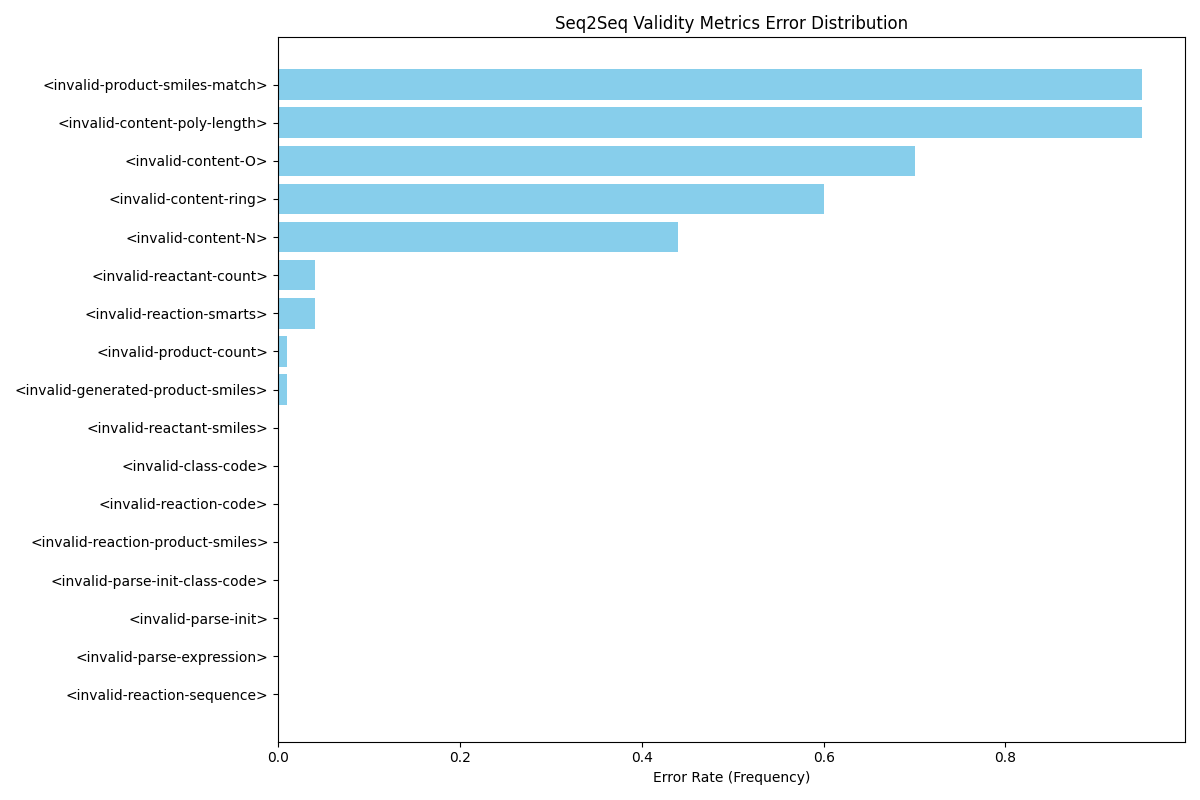
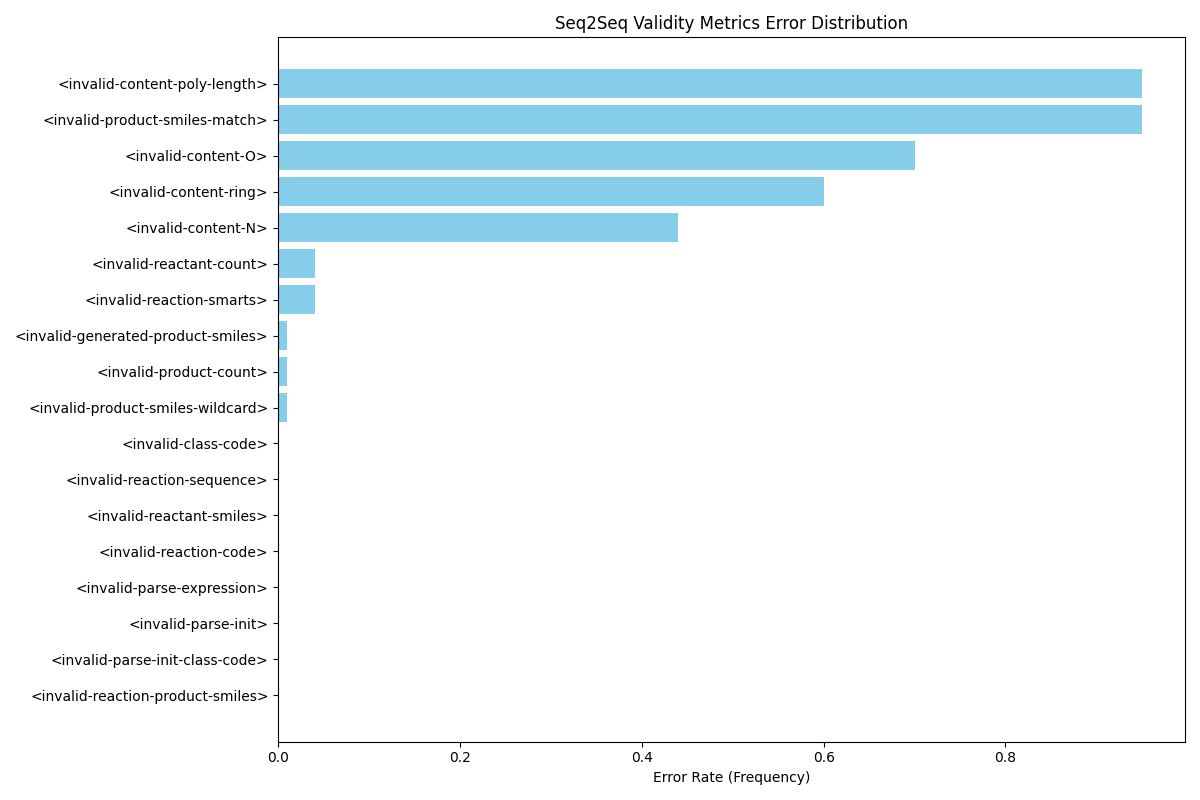
added df write to the output directory

Changed region(s): [[0.0, 0.1562, 0.9558, 0.7812], [0.0308, 0.8125, 0.2158, 0.875], [0.0308, 0.0938, 0.2158, 0.1562]]

diff --git a/seq2seq/src/validator/validator.py b/seq2seq/src/validator/validator.py
@@ -166,6 +166,8 @@ class SeqValidator:
         init_token = re.search(r"##(.*?)##", sequence).group(1)
         init_token = f"##{init_token}##"
         # expression token is the part of the sequence left without init token
+        if init_token is None:
+            raise ValueError("<invalid-init-sequence>")
         expression_token = sequence.replace(init_token, "").strip()
         assert expression_token[-1] == "$" and expression_token[0] == "$", (
             "<invalid-parse-expression>"
@@ -250,12 +252,17 @@ class SeqValidator:
                 ]
                 # flatten this prods_smiles list of lists to list of one dimensions
                 prods_smiles = [item for sublist in prods_smiles for item in sublist]
+                print("prods_smiles", prods_smiles)
                 try:
                     product_smiles = Chem.MolToSmiles(
                         Chem.MolFromSmiles(product.strip()), canonical=True
                     )
+                    print(f"product_smiles >> <{product_smiles}>")
                     if product_smiles not in prods_smiles:
                         errors.append("<invalid-product-smiles-match>")
+                    # search if product_smiles contains exactly 2 "*" or not
+                    if product_smiles.count("*") != 2:
+                        errors.append("<invalid-product-smiles-wildcard>")
                 except Exception as _:
                     errors.append("<invalid-generated-product-smiles>")
             except Exception as _:
@@ -288,13 +295,20 @@ if __name__ == "__main__":
     Homo_Candidate = "##E:0:4:1:27## ${Cc1cc(C(=O)O)c(O)c(C(=O)O)c1} => ([O&X2&H1&!$(OC=*):1].[C&X3:2](=O)[O&X2&H1])>>(*-[O&X2:1].[C&X3:2](=O)-*) => *Oc1c(C(*)=O)cc(C)cc1C(=O)O$"
     # Co_Candidate = "##E:0:8:6:83## ${Cc1cc(CC(=O)O)c(C(=O)Cl)cc1C} + {O=C1c2ccccc2C(=O)c2cc(-c3ccc(O)cc3O)c(-c3cc(O)cc(O)c3)cc21} => ([C&X3:1](=O)[O&X2&H1,Cl,Br].[C&X3:2](=O)[O&X2&H1,Cl,Br]).([O,S;X2;H1;!$([O,S]C=*):3].[O,S;X2;H1;!$([O,S]C=*):4])>>(*-[C&X3:1]=O.[C&X3:2](=O)-[O,S;X2;!$([O,S]C=*):3].[O,S;X2;!$([O,S]C=*):4]-*) => *Oc1cc(O)cc(-c2cc3c(cc2-c2ccc(O)cc2OC(=O)Cc2cc(C)c(C)cc2C(*)=O)C(=O)c2ccccc2C3=O)c1$"
     Co_Candidate = "##E:0:8:6:89## ${Cc1cc(CC(=O)X)c(C(=O)Cl)cc1C} + {O=C1c2ccccc2C(=O)c2cc(-c3ccc(O)cc3O)c(-c3cc(O)cc(O)c3)cc21} => ([C&X3:1](=O)[O&X2&H1,Cl,Br].[C&X3:2](=O)[O&X2&H1,Cl,Br]).([O,S;X2;H1;!$([O,S]C=*):3].[O,S;X2;H1;!$([O,S]C=*):4])>>(*-[C&X3:1]=O.[C&X3:2](=O)-[O,S;X2;!$([O,S]C=*):3].[O,S;X2;!$([O,S]C=*):4]-*) => *Oc1cc(O)cc(-c2cc3c(cc2-c2ccc(O)cc2OC(=O)Cc2cc(C)c(C)cc2C(*)=O)C(=O)c2ccccc2C3=O)c1$"
+    custom = "# # E : 1 : 6 : 3 : 75 # # $ { CN ( CC ( = O ) O ) C ( = O ) CCC ( = O ) O } + { Oc1ccc ( - c2ccc ( OC3 = C ( F ) C ( F ) ( F ) C ( F ) ( F ) C3 ( F ) F ) o2 ) c ( O ) c1 } = > ( [ C & X3 : 1 ] ( = O ) [ O & X2 & H1, Cl, Br ]. [ C & X3 : 2 ] ( = O ) [ O & X2 & H1, Cl, Br ] ). ( [ O, S ; X2 ; H1 ;! $ ( [ O, S ] C = * ) : 3 ]. [ O, S ; X2 ; H1 ;! $ ( [ O, S ] C = * ) : 4 ] ) > > ( * - [ C & X3 : 1 ] = O. [ C & X3 : 2 ] ( = O ) - [ O, S ; X2 ;! $ ( [ O, S ] C = * ) : 3 ]. [ O, S ; X2 ;! $ ( [ O, S ] C = * ) : 4 ] - * ) = > * Oc1cccc ( - c2ccc ( CCCCCCCCCCCCCCCCCC ) c ( OC ( = O ) c3ccc ( CCC ( * ) = O ) cc3O ) c2 ) c1 $"
+    custom2 = "# # E : 0 : 9 : 5 : 92 # # $ { O = C ( O ) Cc1ccc ( S ( = O ) ( = O ) c2ccc ( C ( = O ) O ) cc2 ) cc1 } + { C = COc1ccc ( O ) c ( S ( = O ) ( = O ) c2cc ( - c3c ( F ) c ( F ) c ( F ) c ( F ) c3F ) ccc2O ) c1 } = > ( [ C & X3 : 1 ] ( = O ) [ O & X2 & H1, Cl, Br ]. [ C & X3 : 2 ] ( = O ) [ O & X2 & H1, Cl, Br ] ). ( [ O, S ; X2 ; H1 ;! $ ( [ O, S ] C = * ) : 3 ]. [ O, S ; X2 ; H1 ;! $ ( [ O, S ] C = * ) : 4 ] ) > > ( * - [ C & X3 : 1 ] = O. [ C & X3 : 2 ] ( = O ) - [ O, S ; X2 ;! $ ( [ O, S ] C = * ) : 3 ]. [ O, S ; X2 ;! $ ( [ O, S ] C = * ) : 4 ] - * ) = > * Oc1ccc ( - c2c ( F ) c ( F ) c ( F ) c ( F ) c2F ) cc1S ( = O ) ( = O ) c1cc ( OC = C ) ccc1OC ( = O ) CCNCNCC ( * ) = O $"
+    custom = custom.replace(" ", "").replace("=>", " => ")
+    custom2 = custom.replace(" ", "").replace("=>", " => ")
 
     # candidates for variation 0
     # Homo_Candidate = "##E:0:4:1:27## ${[[6*]C(=O)O] + [[16*]c1cc(C)cc(C(=O)O)c1O] -> [6*]-[*:1].[16*]-[*:2]>>[$([C&D3&!R](=O)-&!@[#0,#6,#7,#8]):1]-&!@[$([c&$(c(:c):c)]):2] -> [Cc1cc(C(=O)O)c(O)c(C(=O)O)c1]} => ([O&X2&H1&!$(OC=*):1].[C&X3:2](=O)[O&X2&H1])>>(*-[O&X2:1].[C&X3:2](=O)-*) => *Oc1c(C(*)=O)cc(C)cc1C(=O)O$"
     # Co_Candidate = "##E:0:8:6:83## ${[[6*]C(=O)Cl] + [[16*]c1cc(C)c(C)cc1CC(=O)O] -> [6*]-[*:1].[16*]-[*:2]>>[$([C&D3&!R](=O)-&!@[#0,#6,#7,#8]):1]-&!@[$([c&$(c(:c):c)]):2] -> [Cc1cc(CC(=O)O)c(C(=O)Cl)cc1C]} + {[[16*]c1ccc(O)cc1O] + [[16*]c1cc2c(cc1-c1cc(O)cc(O)c1)C(=O)c1ccccc1C2=O] -> [16*]-[*:1].[16*]-[*:2]>>[$([c&$(c(:c):c)]):1]-&!@[$([c&$(c(:c):c)]):2] -> [O=C1c2ccccc2C(=O)c2cc(-c3ccc(O)cc3O)c(-c3cc(O)cc(O)c3)cc21]} => ([C&X3:1](=O)[O&X2&H1,Cl,Br].[C&X3:2](=O)[O&X2&H1,Cl,Br]).([O,S;X2;H1;!$([O,S]C=*):3].[O,S;X2;H1;!$([O,S]C=*):4])>>(*-[C&X3:1]=O.[C&X3:2](=O)-[O,S;X2;!$([O,S]C=*):3].[O,S;X2;!$([O,S]C=*):4]-*) => *Oc1cc(O)cc(-c2cc3c(cc2-c2ccc(O)cc2OC(=O)Cc2cc(C)c(C)cc2C(*)=O)C(=O)c2ccccc2C3=O)c1$"
 
+    # validator = SeqValidator(variation_code=1)
+    # e_values = validator.validate(Homo_Candidate)
+    # print("e_values >>", e_values)
+    # e_values = validator.validate(Co_Candidate)
+    # print("e_value >>", e_values)
     validator = SeqValidator(variation_code=1)
-    e_values = validator.validate(Homo_Candidate)
-    print("e_values >>", e_values)
-    e_values = validator.validate(Co_Candidate)
+    e_values = validator.validate(custom2)
     print("e_value >>", e_values)

diff --git a/seq2seq/src/benchmarking/metrics/seq2seq_metrics.py b/seq2seq/src/benchmarking/metrics/seq2seq_metrics.py
@@ -27,8 +27,10 @@ METRICS_ERROR_MAP = {
     "<invalid-product-count>",
     "<invalid-product-smiles-match>",
     "<invalid-generated-product-smiles>",
+    "<invalid-product-smiles-wildcard>",
     "<invalid-reaction-product-smiles>",
     "<unsupported-var-code>",
+    "<invalid-init-sequence>",
 }
 
 
@@ -53,7 +55,7 @@ class Seq2SeqValidityMetrics:
             if error in METRICS_ERROR_MAP:
                 row[error] = 1
                 self.add_to_metric(error, 1)
-        return errors
+        return row
 
     def add_to_metric(self, name, value):
         if name not in self.metrics:
@@ -61,7 +63,7 @@ class Seq2SeqValidityMetrics:
         self.metrics[name] = self.metrics[name] + value
 
     def evaluate(self):
-        self.df.apply(self._validate, axis=1)
+        self.df = self.df.apply(self._validate, axis=1)
         self.eval = {
             metric_id: (metric_value / self.df.shape[0])
             for metric_id, metric_value in self.metrics.items()
@@ -77,6 +79,9 @@ class Seq2SeqValidityMetrics:
             )
 
         return validation_score, self.eval
+
+    def save_df(self, save_path):
+        self.df.to_csv(save_path, index=False)
 
     def visualize(self, save_path=None):
         """
@@ -126,4 +131,5 @@ if __name__ == "__main__":
     metrics = Seq2SeqValidityMetrics(df, "sequence")
     score, _ = metrics.compute()
     metrics.visualize(save_path="./metrics_plot.png")
+    metrics.save_df(save_path="./metrics_data.csv")
     print("score >>", score)

diff --git a/seq2seq/src/benchmarking/run_bench.py b/seq2seq/src/benchmarking/run_bench.py
@@ -199,6 +199,9 @@ class BenchmarkRunner:
                 "validity_score": score,
                 "error_details": details,
             }
+            metrics_df_path = os.path.join(output_dir, "validity_metrics.csv")
+            metrics.save_df(metrics_df_path)
+
             with open(results_json_path, "w") as f:
                 json.dump(json_results, f, indent=4)
 
